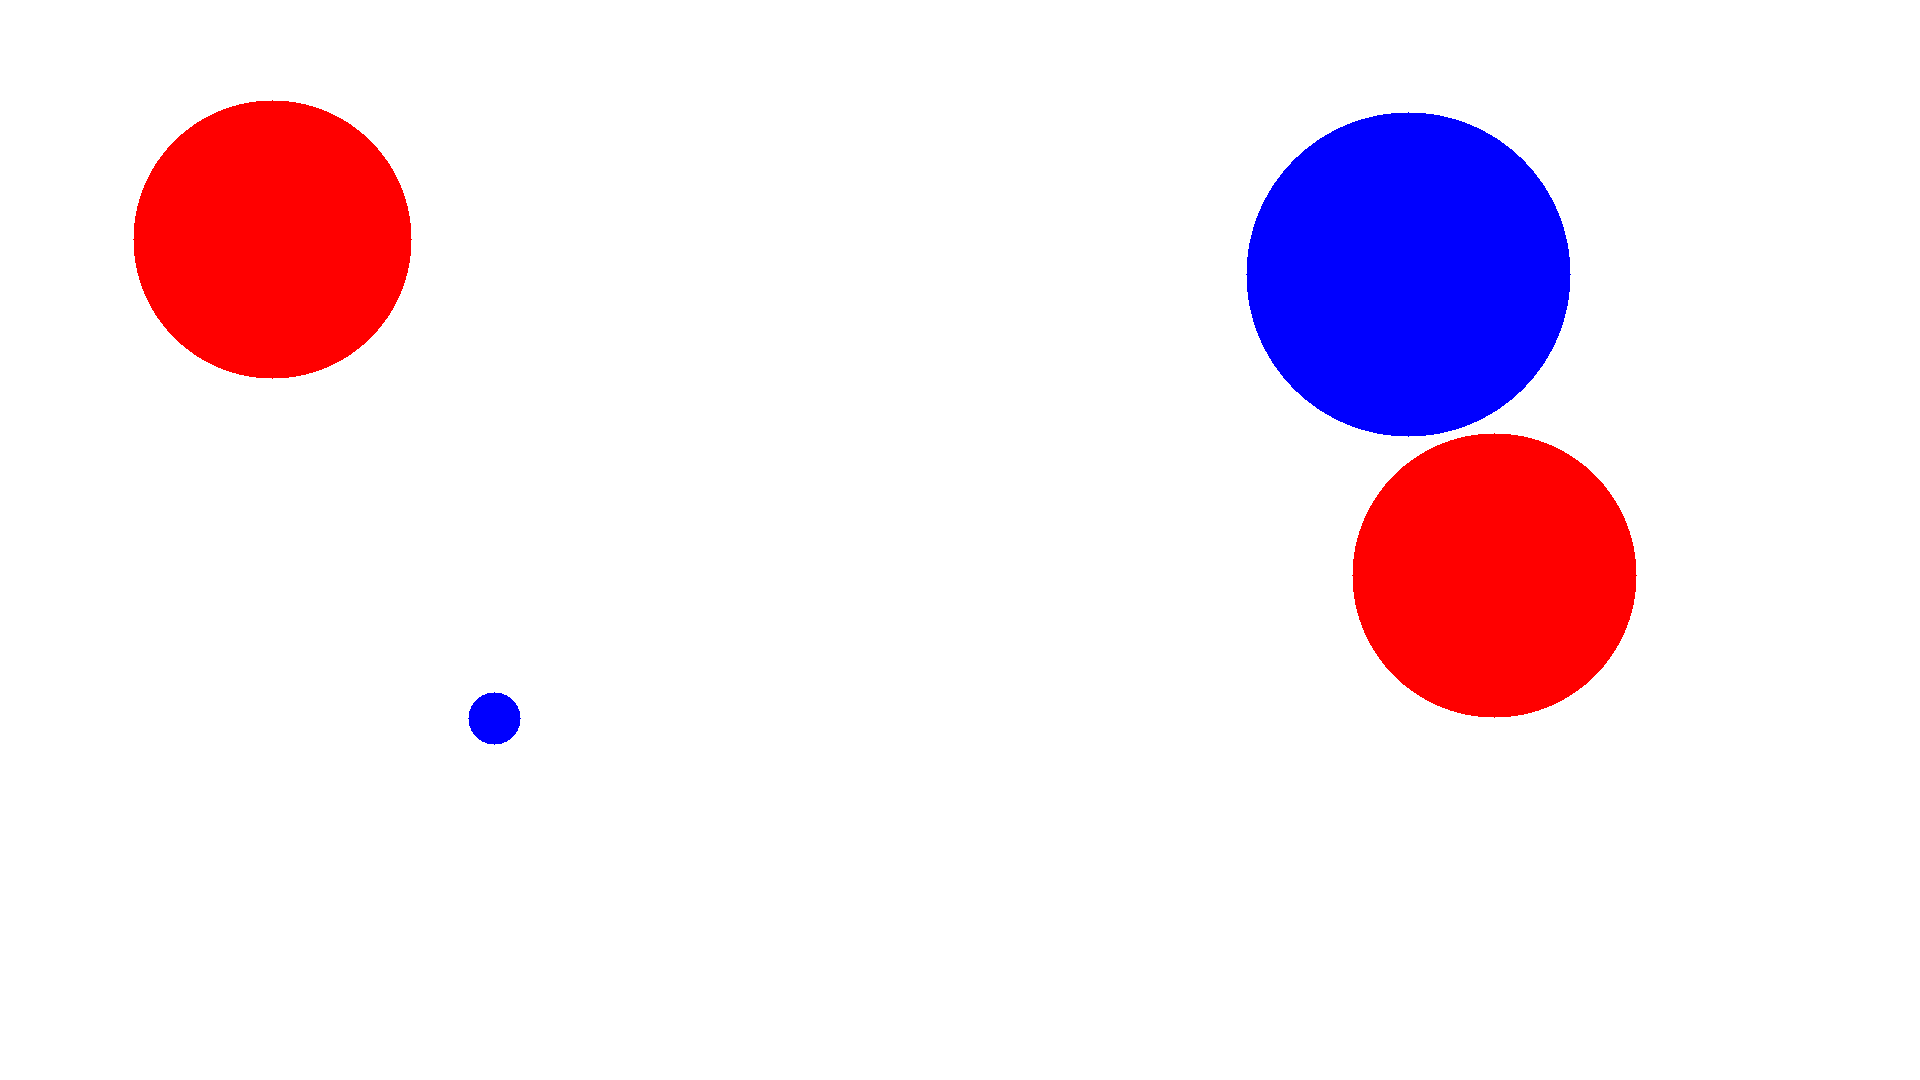
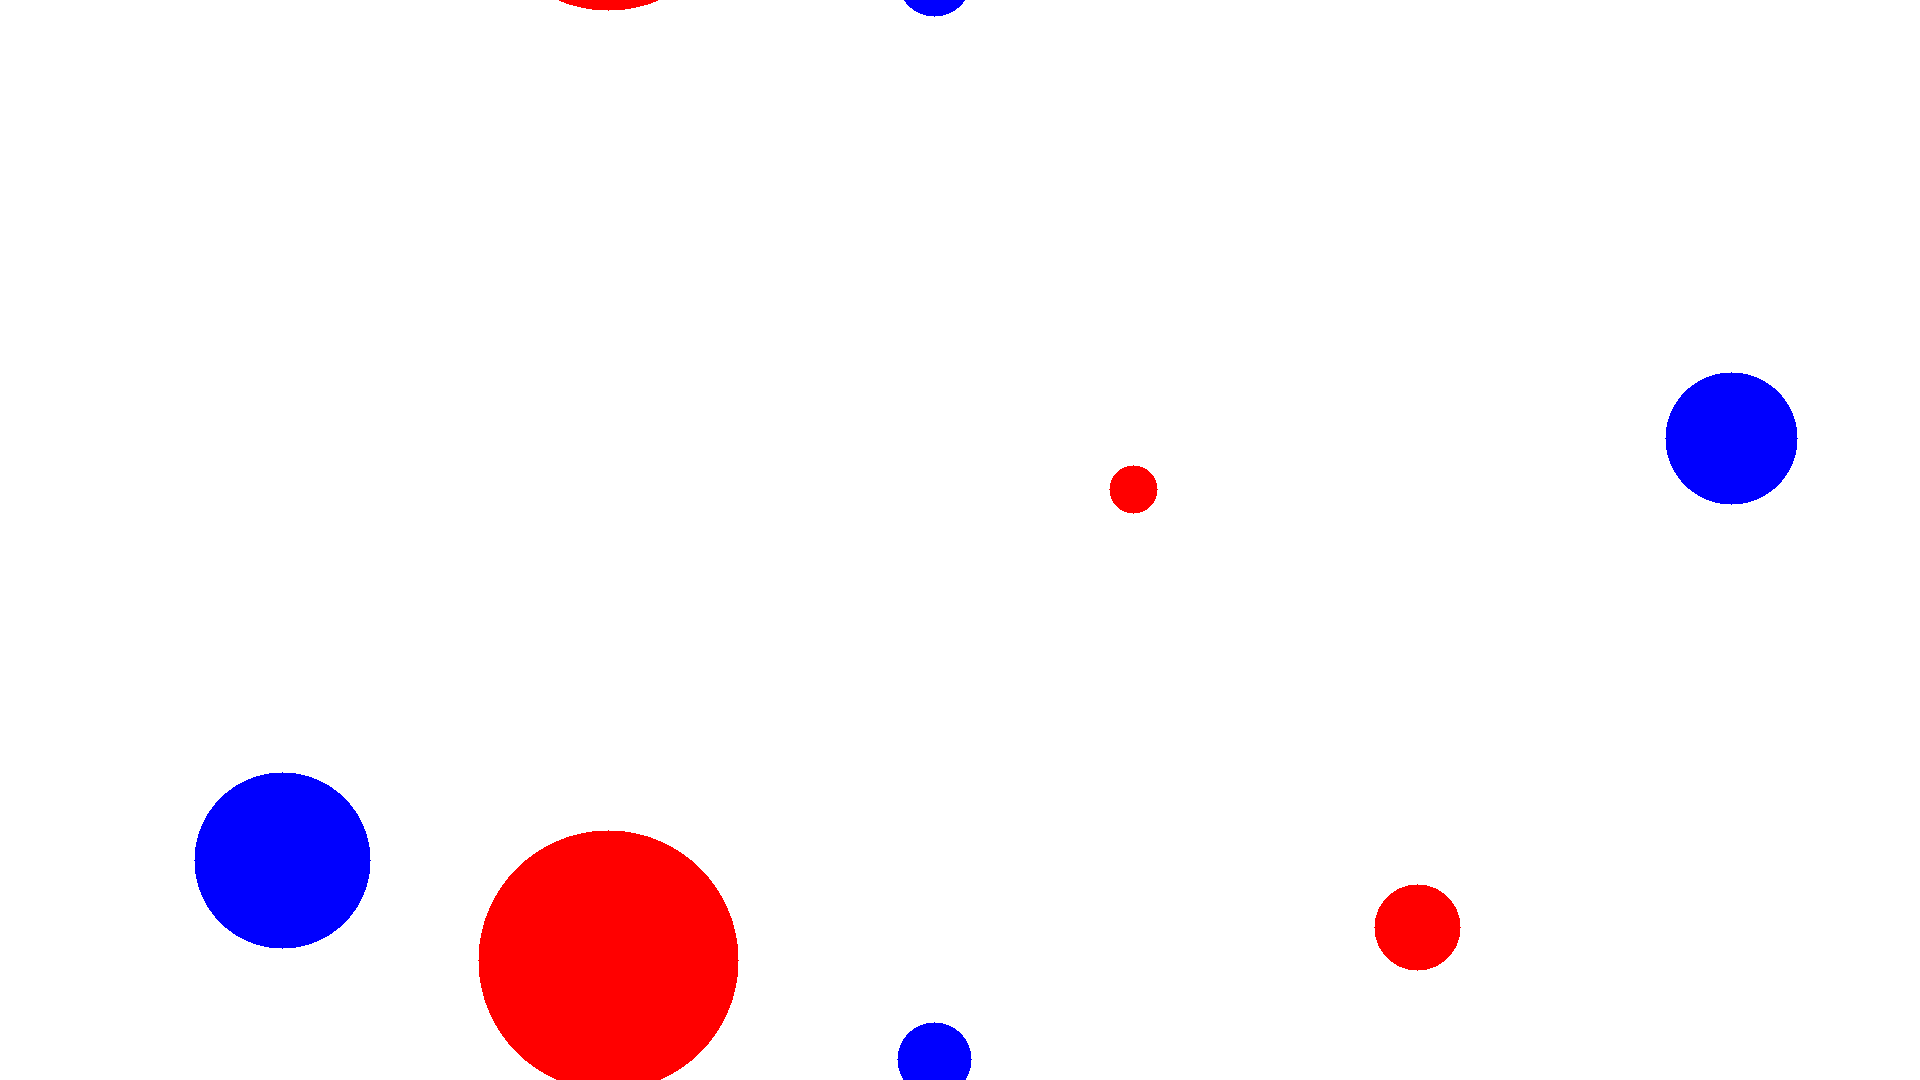
circles now wrap

diff --git a/src/q1/ThreadPainter.java b/src/q1/ThreadPainter.java
@@ -39,10 +39,8 @@ class ThreadPainter extends Thread {
 
     // draws a circle
     // original C code from: http://www.softwareandfinance.com/Turbo_C/DrawCircle.html
-    // code was modified to draw full circles
+    // code was modified to draw filled in circles
     private void drawCircle(int radius, int xPos, int yPos) {
-        if (xPos >= width || yPos >= height)
-            throw new IllegalArgumentException();
 
         System.out.println(name + " drawing circle at " + xPos + "," + yPos);
         double angle;
@@ -52,8 +50,14 @@ class ThreadPainter extends Thread {
             for (double i = 0; i < 360; i = i + 0.01) {
                 angle = i;
                 x = (int)(r * Math.cos(angle * PI / 180));
+                x += xPos;
+                x %= width;
+                if (x < 0) x+= width;
                 y = (int)(r * Math.sin(angle * PI / 180));
-                img.setRGB(xPos + x, yPos + y, color.getRGB());
+                y += yPos;
+                y %= height;
+                if (y < 0) y+= height;
+                img.setRGB(x, y, color.getRGB());
             }
         }
         System.out.println(name + " finished drawing circle at " + xPos + "," + yPos);
@@ -78,8 +82,14 @@ class ThreadPainter extends Thread {
                 for (double i = 0; i < 360; i = i + 0.01) {
                     angle = i;
                     x = (int)(r * Math.cos(angle * PI / 180));
+                    x += xPos;
+                    x %= width;
+                    if (x < 0) x+= width;
                     y = (int)(r * Math.sin(angle * PI / 180));
-                    if (pixelReserved[xPos + x][yPos + y]) {
+                    y += yPos;
+                    y %= height;
+                    if (y < 0) y+= height;
+                    if (pixelReserved[x][y]) {
                         System.out.println(name + " could not reserve circle at " + xPos + "," + yPos);
                         return false;
                     }
@@ -91,8 +101,14 @@ class ThreadPainter extends Thread {
                 for (double i = 0; i < 360; i = i + 0.01) {
                     angle = i;
                     x = (int)(r * Math.cos(angle * PI / 180));
+                    x += xPos;
+                    x %= width;
+                    if (x < 0) x+= width;
                     y = (int)(r * Math.sin(angle * PI / 180));
-                    pixelReserved[xPos + x][yPos + y] = true;
+                    y += yPos;
+                    y %= height;
+                    if (y < 0) y+= height;
+                    pixelReserved[x][y] = true;
                 }
             }
             System.out.println(name + " reserved circle at " + xPos + "," + yPos);
@@ -108,8 +124,10 @@ class ThreadPainter extends Thread {
             try {
                 while(counter.get() < numCircles) {
                     int radius = Math.max(20, rng.nextInt(maxRadius));
-                    int x = Math.max(radius, rng.nextInt(width - radius));
-                    int y = Math.max(radius, rng.nextInt(height - radius));
+//                    int x = Math.max(radius, rng.nextInt(width - radius));
+//                    int y = Math.max(radius, rng.nextInt(height - radius));
+                    int x = rng.nextInt(width);
+                    int y = rng.nextInt(height);
 
                     if (synchronizedReservePixels(radius, x, y))
                         drawCircle(radius, x, y);

diff --git a/src/q1/q1.java b/src/q1/q1.java
@@ -21,7 +21,7 @@ public class q1 {
             BufferedImage img = new BufferedImage(ThreadPainter.getWidth(), ThreadPainter.getHeight(), BufferedImage.TYPE_INT_ARGB);
             for (int i = 0; i< ThreadPainter.getWidth(); i++) {
                 for (int j = 0; j< ThreadPainter.getHeight(); j++) {
-                    img.setRGB(i,j,0);
+                    img.setRGB(i,j,Color.white.getRGB());
                 }
             }
 
